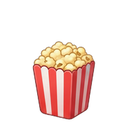
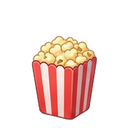
Raise short item art to an 85 px minimum height
The 16 shortest items (yogurt tubs and cups, jam jars, coffee cup, ice cream
tub, gummy bears bag, popcorn box, gift box) were 71-81 px tall and read as
too small beside the 110 px catalog. Rebuild them from their 256x256
originals at 85 px tall. Most were already at the 66 px width cap, and
slots sit 60 shelf units apart, so a uniform scale would overlap neighbours;
instead scale uniformly up to 66 px wide and stretch only vertically for the
rest (3-21%, the gift box needs none).

Document the minimum height, the width-capped stretch exception, and where
the 256x256 sources live in ITEM_ASSET_REQUIREMENTS.md.

Changed region(s): [[0.25, 0.2812, 0.7812, 0.9375]]

diff --git a/docs/ITEM_ASSET_REQUIREMENTS.md b/docs/ITEM_ASSET_REQUIREMENTS.md
@@ -33,7 +33,10 @@ approximately `5%`. Low-alpha antialiasing fringe outside this box is acceptable
 The visible artwork must:
 
 - Fit within a maximum box of approximately `66x110` pixels.
-- Preserve its original aspect ratio. Never stretch width and height independently.
+- Be at least `85` pixels tall. Shorter items read as too small beside the full-height catalog.
+- Preserve its original aspect ratio. Never stretch width and height independently, except to meet
+  the `85` pixel minimum height: scale uniformly until the width reaches `66`, then stretch only
+  vertically for the remaining height (see [Short Items](#short-items)).
 - Be centered horizontally around canvas X=`64`, with a tolerance of about `1` pixel.
 - End at canvas Y=`120`, with a tolerance of about `1` pixel. With the top-left coordinate system,
   this means `visible_y + visible_height = 120`. The runtime ground shadow anchors on this line
@@ -134,6 +137,26 @@ Lanczos is the preferred filter for proportional resizing of these raster assets
 Compose the processed silhouette onto a new transparent canvas using the calculated `x` and `y`
 instead of vertically centering it.
 
+### Short Items
+
+If step 3 leaves the silhouette shorter than `85` pixels, resize the trimmed source again instead:
+proportionally to `85` pixels tall when that keeps the width at `66` or less, otherwise to exactly
+`66x85`. The extra height is then a vertical-only stretch. A uniform scale would push the width past
+`66`, and adjacent slots sit only `60` shelf units apart, so neighboring items would overlap. Squat
+tubs, jars, cups, and boxes tolerate the stretch well. The largest stretch in the catalog is about
+`21%` (the yogurt tubs).
+
+```powershell
+& $magick input.png -alpha on -trim +repage -filter Lanczos -resize '66x85!' trimmed.png
+```
+
+Resampling spreads the 5% alpha edge by about a pixel, so recheck the visible box and nudge the
+resize dimensions until it measures exactly `85` tall and no more than `66` wide.
+
+Rework existing catalog items from their `256x256` originals, which are in Git history before the
+switch to the `128x128` set: `git show bd673ad^:assets/items/item_<item_id>.png`. Do not upscale the
+committed `128x128` files.
+
 ## Validation
 
 Check canvas size, channels, and alpha with ImageMagick:
@@ -158,7 +181,7 @@ Check the meaningful alpha bounds:
 Confirm that:
 
 - Visible width is at most about `66`.
-- Visible height is at most about `110`.
+- Visible height is at most about `110` and at least `85`.
 - The horizontal center is approximately X=`64`.
 - `offset_y + visible_height` is approximately `120`.
 
